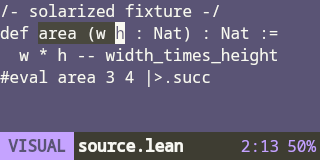
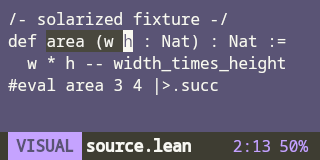
test(lean): draw the theme pictures padded as the editor pads a window
The theme pictures' view is padded 8 points across and down, the
editor's frame padding, which at scale 1 is 8 pixels: the text, the
selection and the cursor are 8 right and 8 down, the mode line's badge
box starts at 8 and its right fields end at 312, and its background
still runs to both edges. The three references are made again, looked
at enlarged and measured, and their bytes and sha256 recorded.

Claude-Session: https://claude.ai/code/session_016j71XtCkr9h3BqB4GoPhkP

diff --git a/tests/render/themes/README.md b/tests/render/themes/README.md
@@ -11,9 +11,9 @@ what the editor sends, not a theme written again in Rust.
 
 | File | Size | Bytes | sha256 |
 |---|---|---|---|
[6 lines of base64/hex data omitted]
 
 Each is kept small on purpose: the scene's size, 320 by 160, and at most
 20 KB, which the scenario checks.
@@ -22,7 +22,11 @@ Each is kept small on purpose: the scene's size, 320 by 160, and at most
 
 The fixture file `source.lean`, four lines of ASCII, in one view 320 by
 160 that covers the picture, taller than the text, so rows of bare paper
-remain below it:
+remain below it. The view is padded as the editor pads a window, 8 points
+across and down (`Loop.padding`), which at scale 1 are 8 pixels: the text
+starts 8 in from the left and 8 down, on paper, and the mode line's first
+field starts 8 in from the left and its last ends 8 short of the right,
+while its background runs to both edges:
 
 - the text in the default face, the theme's ink on its paper;
 - a selection from the `a` of `area` on the second line to its head on
@@ -34,7 +38,8 @@ remain below it:
   on the left the `VISUAL` badge in `mode-line.state.visual`, the paper on
   the theme's visual accent, with 8 points of it each side of the text,
   then `source.lean` in `mode-line.buffer`; on the right, ending at the
-  row's end, the cursor's line:col `2:13` and its position `50%` in
+  row's end less the padding, the cursor's line:col `2:13` and its
+  position `50%` in
   `mode-line.secondary`; over `mode-line`, in a row made taller by
   `mode-line`'s and `echo-area`'s padding of 3 points above and below (the
   font's 22-pixel line and 6, 28 pixels, the view's bottom row).
@@ -46,15 +51,17 @@ not in the set and falls through to it. It is drawn at 16 points, the
 theme's default size, at scale 1, with grayscale antialiasing and hinting,
 at the linear weight.
 
-The three files were made again for the segmented mode line and looked
-at, enlarged four times, when they were (2026-11-16), by the agent that
+The three files were made again for the window padding and looked at,
+enlarged four times, when they were (2026-11-16), by the agent that
 implemented it, and not yet by a person: in each, the text, the selection
-and the block cursor on the `h` are as before; the badge is a box of its
-accent (Solarized's magenta, Fairy Floss's lavender) 74 pixels across from
-the row's start, its text 8 pixels in; the buffer's name follows in bold;
-line:col and the position end at the row's right edge; and the status row
-is 28 pixels tall, from row 132. Measured too, by decoding the files'
-pixels. Looking at them
+and the block cursor on the `h` are as before but 8 pixels right and 8
+down, the text's first ink at x 8; the badge is a box of its accent
+(Solarized's magenta, Fairy Floss's lavender) 74 pixels across from x 8,
+its text 8 pixels further in; the buffer's name follows in bold; line:col
+and the position end 8 short of the row's right edge, their last ink at x
+305 and their box at 312; the mode line's background reaches x 0 and x
+319; and the status row is 28 pixels tall, from row 132, as before.
+Measured too, by decoding the files' pixels. Looking at them
 checks that they show text, a selection and a cursor; it does not judge
 how the theme looks, which is left to the owner's day-to-day use.
 
